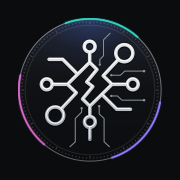
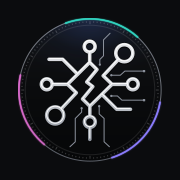
Tighten the seal's rings and darken its disc
Claude-Session: https://claude.ai/code/session_01U614ADp9nbGW9D51g8CnAr

Changed region(s): [[0.3889, 0.1111, 0.6111, 0.1944]]

diff --git a/src/components/site/botlane-seal.tsx b/src/components/site/botlane-seal.tsx
@@ -7,23 +7,23 @@ import { cn } from "@/lib/utils"
 // with the disc's centre at 0,0, so the beams can turn about the origin. The rings read --neutral-12 and the lane colours
 // read their own tokens, so the seal follows the theme; the disc stays dark in both themes, like a button that keeps its own material.
 const R = 376
-const REACH = 590   // half the canvas with the rings on
+const REACH = 512   // half the canvas with the rings on
 const NEAT = R + 2  // half the canvas with the rings off
 const LINE = 18.92     // the bolt's line width
 const ICON = "M-1.7 -199.3L-1.7 -145.1L36.5 -107.3L-17.2 -41.9L14.6 -17.8L-39.1 47.5L-0.9 85.3L-0.9 139.5M-0.9 196.3L-0.9 259.1M-1.7 -145.1L-118.2 -29.9L-198.6 -29.9M-0.9 85.3L115.7 -29.9L196.1 -29.9M-118.2 -29.9L-71.8 14.8L-152.2 100.8M115.7 -29.9L69.2 -74.6L149.6 -160.6M-215.0 -161.0L-143.2 -161.0L-64.5 -82.3M212.4 101.3L140.6 101.3L61.9 22.6M-30.1 -227.7a28.4 28.4 0 1 0 56.8 0a28.4 28.4 0 1 0 -56.8 0ZM-29.2 167.9a28.4 28.4 0 1 0 56.8 0a28.4 28.4 0 1 0 -56.8 0ZM-255.4 -29.9a28.4 28.4 0 1 0 56.8 0a28.4 28.4 0 1 0 -56.8 0ZM196.1 -29.9a28.4 28.4 0 1 0 56.8 0a28.4 28.4 0 1 0 -56.8 0ZM-227.5 133.5a44.7 44.7 0 1 0 89.4 0a44.7 44.7 0 1 0 -89.4 0ZM135.4 -193.3a44.7 44.7 0 1 0 89.4 0a44.7 44.7 0 1 0 -89.4 0Z"
 const BOLT = "M-1.7 -145.1L36.5 -107.3L-17.2 -41.9L14.6 -17.8L-39.1 47.5L-0.9 85.3"  // the spine's zigzag alone, for the tiny size
 const TRACES = "M105.3 -297.8L70.9 -263.4L70.9 -179.5L51.6 -160.2L51.6 -133.1M283.8 -99.1L182.7 -99.1L159.1 -77.6L111.8 -77.6M283.8 53.5L167.7 53.5L144.0 31.2L111.8 31.2M-105.3 297.8L-77.4 272.0L-77.4 149.4L-43.9 115.9L-43.9 95.7M101.9 297.8L74.0 272.0L74.0 149.4L48.2 125.8L48.2 84.9"
-const RINGS = "M-396.8 77.0C-397.8 69.4 -401.8 46.7 -402.9 31.5C-404.1 16.2 -404.4 0.8 -403.9 -14.4C-403.3 -29.7 -401.9 -45.0 -399.6 -60.2C-397.3 -75.3 -394.1 -90.3 -390.1 -105.1C-386.2 -119.8 -381.3 -134.4 -375.7 -148.6C-370.1 -162.9 -363.6 -176.8 -356.4 -190.3C-349.2 -203.8 -341.2 -216.9 -332.6 -229.5C-323.9 -242.1 -314.5 -254.3 -304.4 -265.8C-294.4 -277.3 -284.6 -287.8 -272.4 -298.7C-260.2 -309.6 -238.2 -325.9 -231.4 -331.3M-193.1 353.7C-201.9 348.2 -229.8 332.3 -245.7 320.4C-261.5 308.6 -275.1 296.1 -288.4 282.6C-301.6 269.0 -313.9 254.3 -325.2 239.0C-336.5 223.8 -350.8 199.0 -355.9 190.9M-350.8 -351.9C-342.3 -359.5 -316.8 -384.0 -299.6 -397.4C-282.4 -410.9 -265.5 -422.0 -247.4 -432.7C-229.3 -443.3 -200.5 -456.5 -191.1 -461.3M285.5 -308.1C292.1 -300.9 313.4 -279.2 325.2 -264.9C336.9 -250.5 346.5 -237.0 355.8 -222.1C365.0 -207.3 376.5 -183.5 380.6 -175.8M16.5 -482.7C23.7 -482.2 46.8 -481.1 60.0 -479.7C73.3 -478.3 84.0 -476.6 95.8 -474.3C107.6 -472.1 125.2 -467.6 131.1 -466.3M403.4 -1.5C403.1 4.5 402.8 23.5 401.9 34.5C401.1 45.6 399.8 54.8 398.2 64.8C396.6 74.9 393.2 89.8 392.3 94.8M-529.9 -19.0C-529.7 -22.9 -529.3 -34.5 -528.7 -42.2C-528.2 -50.0 -527.5 -56.8 -526.5 -65.4C-525.6 -73.9 -523.5 -88.9 -522.9 -93.6M289.0 -455.9C296.4 -450.7 319.3 -435.9 333.7 -424.8C348.0 -413.6 361.8 -401.7 375.0 -389.2C388.1 -376.6 400.6 -363.3 412.4 -349.5C424.2 -335.7 435.3 -321.2 445.6 -306.2C455.9 -291.2 465.5 -275.7 474.3 -259.7C483.0 -243.8 490.9 -227.3 498.0 -210.6C505.0 -193.8 511.3 -176.6 516.6 -159.3C521.9 -141.9 526.3 -124.2 529.8 -106.4C533.3 -88.5 535.9 -70.5 537.6 -52.4C539.3 -34.3 540.0 -16.1 539.9 2.1C539.7 20.2 538.6 38.4 536.6 56.5C534.6 74.5 531.6 92.5 527.8 110.2C524.0 127.9 519.2 145.5 513.6 162.7C508.0 179.9 501.5 196.9 494.2 213.5C486.9 230.0 478.7 246.3 469.7 262.0C460.8 277.7 451.0 293.0 440.5 307.7C430.0 322.4 418.8 336.6 406.9 350.2C395.0 363.7 382.3 376.8 369.1 389.0C355.9 401.3 342.0 413.0 327.7 423.8C313.3 434.7 298.4 444.9 283.0 454.2C267.7 463.6 251.7 472.2 235.5 480.0C219.3 487.7 202.7 494.7 185.8 500.8C168.9 506.8 151.6 512.1 134.2 516.4C116.8 520.8 99.1 524.2 81.4 526.8C63.7 529.4 45.7 531.0 27.8 531.8C10.0 532.6 -8.0 532.5 -25.9 531.4C-43.7 530.4 -61.6 528.5 -79.3 525.7C-96.9 522.9 -114.5 519.2 -131.7 514.6C-149.0 510.1 -166.1 504.6 -182.8 498.4C-199.5 492.1 -216.0 485.0 -232.0 477.1C-248.0 469.2 -263.6 460.5 -278.7 451.0C-293.8 441.6 -308.5 431.3 -322.6 420.4C-336.7 409.6 -350.3 397.9 -363.3 385.7C-376.2 373.4 -388.6 360.5 -400.2 347.0C-411.8 333.5 -422.8 319.4 -433.1 304.9C-443.3 290.3 -452.9 275.2 -461.6 259.7C-470.4 244.2 -478.4 228.1 -485.5 211.8C-492.7 195.5 -501.4 170.2 -504.6 161.9M-440.4 221.7C-444.5 212.2 -457.9 184.3 -464.9 165.0C-471.8 145.6 -477.5 125.6 -482.0 105.6C-486.4 85.5 -489.6 65.0 -491.5 44.5C-493.4 24.0 -494.1 3.2 -493.5 -17.3C-492.9 -37.9 -488.8 -68.7 -487.9 -79.0"
+const RINGS = "M-388.9 75.4C-389.9 68.0 -393.7 45.8 -394.9 30.8C-396.0 15.9 -396.4 0.8 -395.8 -14.2C-395.3 -29.1 -393.9 -44.2 -391.6 -59.0C-389.4 -73.8 -386.3 -88.5 -382.4 -103.0C-378.5 -117.5 -373.8 -131.8 -368.2 -145.7C-362.7 -159.6 -356.4 -173.3 -349.3 -186.5C-342.3 -199.7 -334.5 -212.6 -326.0 -225.0C-317.5 -237.3 -308.2 -249.2 -298.4 -260.5C-288.5 -271.8 -278.8 -282.0 -266.9 -292.7C-255.0 -303.4 -233.6 -319.3 -227.0 -324.6M-189.7 346.9C-198.2 341.5 -225.4 325.8 -240.9 314.2C-256.4 302.5 -269.7 290.3 -282.7 277.1C-295.7 263.8 -307.9 249.4 -318.9 234.4C-329.9 219.4 -343.9 195.0 -348.9 187.2M-317.9 -320.9C-310.3 -327.6 -287.8 -349.1 -272.2 -361.1C-256.7 -373.1 -241.1 -383.4 -224.7 -393.0C-208.2 -402.6 -182.0 -414.4 -173.5 -418.7M276.0 -297.2C282.4 -290.3 302.9 -269.7 314.2 -255.9C325.5 -242.2 334.8 -229.0 343.7 -214.6C352.7 -200.3 363.8 -177.4 367.8 -169.9M16.4 -443.1C22.8 -442.6 43.2 -441.5 55.1 -440.2C67.0 -438.9 77.0 -437.3 87.9 -435.2C98.7 -433.1 114.8 -428.9 120.2 -427.7M395.6 -1.2C395.4 4.6 395.0 23.0 394.2 33.8C393.3 44.7 392.1 53.7 390.5 63.6C388.9 73.4 385.6 88.1 384.7 93.0M-471.5 -16.9C-471.3 -20.4 -470.9 -30.7 -470.4 -37.6C-469.8 -44.4 -469.2 -50.8 -468.4 -58.1C-467.5 -65.5 -465.7 -77.6 -465.1 -81.5M255.6 -403.3C262.2 -398.7 282.4 -385.5 295.1 -375.6C307.7 -365.8 320.0 -355.2 331.6 -344.1C343.2 -333.0 354.2 -321.2 364.6 -309.0C375.0 -296.8 384.9 -283.9 394.0 -270.7C403.1 -257.5 411.6 -243.7 419.3 -229.6C427.0 -215.5 434.0 -201.0 440.3 -186.2C446.5 -171.4 452.0 -156.2 456.7 -140.8C461.4 -125.5 465.4 -109.8 468.5 -94.0C471.6 -78.3 473.9 -62.3 475.4 -46.3C476.9 -30.3 477.6 -14.2 477.5 1.8C477.4 17.9 476.4 34.0 474.7 49.9C473.0 65.9 470.4 81.8 467.0 97.5C463.7 113.2 459.5 128.8 454.6 144.0C449.7 159.2 443.9 174.3 437.5 189.0C431.1 203.6 423.9 218.1 416.0 232.0C408.1 245.9 399.5 259.5 390.2 272.6C381.0 285.6 371.0 298.3 360.5 310.3C350.0 322.4 338.9 333.9 327.2 344.8C315.5 355.8 303.3 366.1 290.6 375.8C277.9 385.5 264.6 394.6 251.0 402.9C237.4 411.3 223.3 418.9 209.0 425.9C194.6 432.8 179.9 439.0 164.9 444.5C149.9 449.9 134.6 454.6 119.2 458.5C103.7 462.4 88.0 465.5 72.3 467.9C56.5 470.2 40.6 471.7 24.7 472.5C8.9 473.2 -7.1 473.1 -23.0 472.3C-38.9 471.4 -54.8 469.7 -70.5 467.3C-86.1 464.8 -101.8 461.6 -117.1 457.6C-132.5 453.6 -147.7 448.7 -162.6 443.2C-177.5 437.7 -192.1 431.4 -206.3 424.4C-220.6 417.4 -234.5 409.7 -248.0 401.3C-261.4 392.9 -274.5 383.8 -287.1 374.1C-299.6 364.4 -311.8 354.1 -323.3 343.2C-334.8 332.3 -345.8 320.8 -356.2 308.8C-366.5 296.8 -376.3 284.3 -385.5 271.3C-394.6 258.4 -403.1 244.9 -410.9 231.1C-418.6 217.3 -425.7 203.0 -432.1 188.5C-438.5 174.0 -446.2 151.5 -449.0 144.0M-401.4 202.1C-405.1 193.5 -417.4 168.0 -423.7 150.3C-430.0 132.7 -435.2 114.5 -439.2 96.2C-443.3 77.9 -446.2 59.2 -447.9 40.5C-449.6 21.9 -450.2 2.9 -449.6 -15.8C-449.0 -34.5 -445.2 -62.6 -444.3 -71.9"
 const WORD = "M357 12Q301.2 12 259.4 -12.1Q217.6 -36.2 194.6 -79.2L191.6 0H70.4V-710H198.4V-458.4Q219.6 -494.6 260.8 -520.3Q302 -546 357 -546Q425.8 -546 476.2 -511.6Q526.6 -477.2 554.2 -414.6Q581.8 -352 581.8 -267Q581.8 -182 554.2 -119.4Q526.6 -56.8 476.2 -22.4Q425.8 12 357 12ZM327.6 -91.6Q383 -91.6 416.2 -138.2Q449.4 -184.8 449.4 -267Q449.4 -349.8 416.6 -396.1Q383.8 -442.4 328.8 -442.4Q287.8 -442.4 258.4 -421.7Q229 -401 213.7 -361.8Q198.4 -322.6 198.4 -267Q198.4 -213 213.7 -173.5Q229 -134 258.1 -112.8Q287.2 -91.6 327.6 -91.6ZM877.8 12Q798.8 12 739.6 -22.4Q680.4 -56.8 647.8 -119.7Q615.2 -182.6 615.2 -267Q615.2 -352 647.8 -414.4Q680.4 -476.8 739.6 -511.4Q798.8 -546 877.8 -546Q956.8 -546 1015.7 -511.4Q1074.6 -476.8 1107.2 -414.4Q1139.8 -352 1139.8 -267Q1139.8 -182.6 1107.2 -119.7Q1074.6 -56.8 1015.7 -22.4Q956.8 12 877.8 12ZM877.8 -91.6Q939.6 -91.6 973.5 -137.9Q1007.4 -184.2 1007.4 -267Q1007.4 -349.4 973.5 -395.9Q939.6 -442.4 877.8 -442.4Q816 -442.4 781.8 -395.9Q747.6 -349.4 747.6 -267Q747.6 -184.2 781.8 -137.9Q816 -91.6 877.8 -91.6ZM1417.6 0Q1338 0 1300.5 -36.8Q1263 -73.6 1263 -152.8V-659.2H1391V-165.2Q1391 -127.6 1407.2 -113.4Q1423.4 -99.2 1456.8 -99.2H1532V0ZM1179.4 -434.8V-534H1532V-434.8ZM1714.4 0Q1655.6 0 1621 -30Q1586.4 -60 1586.4 -126.4V-710H1714.4V-139.4Q1714.4 -118.6 1724.7 -108.9Q1735 -99.2 1754.2 -99.2H1793.4V0ZM1992.6 12Q1909.4 12 1858.3 -26.4Q1807.2 -64.8 1807.2 -133.6Q1807.2 -203.2 1850.2 -242Q1893.2 -280.8 1980.6 -298L2158.2 -332.6Q2158.2 -389.6 2132.1 -418.2Q2106 -446.8 2055.4 -446.8Q2008.8 -446.8 1982.2 -425.5Q1955.6 -404.2 1946.4 -363.8L1816.2 -370.4Q1831.6 -454.6 1893.7 -500.3Q1955.8 -546 2055.4 -546Q2169.4 -546 2227.8 -488.7Q2286.2 -431.4 2286.2 -324.4V-129.8Q2286.2 -108.6 2293.5 -100.9Q2300.8 -93.2 2315.8 -93.2H2332.8V0Q2326.8 1.8 2313.4 3.1Q2300 4.4 2286.4 4.4Q2253.2 4.4 2227.3 -6.5Q2201.4 -17.4 2187 -43.5Q2172.6 -69.6 2172.6 -115.6L2184.2 -108Q2175.6 -72.8 2149.4 -45.5Q2123.2 -18.2 2083 -3.1Q2042.8 12 1992.6 12ZM2019 -81.2Q2061.6 -81.2 2092.7 -97.9Q2123.8 -114.6 2141 -144.9Q2158.2 -175.2 2158.2 -215.6V-245.6L2019.8 -217.6Q1977.4 -209.2 1958.5 -191.5Q1939.6 -173.8 1939.6 -145.6Q1939.6 -115 1960.3 -98.1Q1981 -81.2 2019 -81.2ZM2373.4 0V-534H2489.2L2494.2 -384.2L2478.6 -390.4Q2487 -446.2 2511.8 -480.3Q2536.6 -514.4 2572.9 -530.2Q2609.2 -546 2652.2 -546Q2711.2 -546 2751.5 -520.2Q2791.8 -494.4 2812.7 -448.9Q2833.6 -403.4 2833.6 -343.4V0H2705.6V-302.2Q2705.6 -347.2 2696.9 -378.3Q2688.2 -409.4 2667.8 -425.7Q2647.4 -442 2613 -442Q2561.6 -442 2531.5 -406.1Q2501.4 -370.2 2501.4 -302.2V0ZM3159.6 12Q3079.8 12 3021.1 -22.4Q2962.4 -56.8 2930.3 -119.7Q2898.2 -182.6 2898.2 -267Q2898.2 -351.4 2930.3 -413.8Q2962.4 -476.2 3020.5 -511.1Q3078.6 -546 3157.2 -546Q3233.4 -546 3290.6 -511.9Q3347.8 -477.8 3379.1 -413.8Q3410.4 -349.8 3410.4 -260V-231.4H3031Q3034.8 -160.8 3069.3 -125.6Q3103.8 -90.4 3161.2 -90.4Q3204 -90.4 3232.3 -109.5Q3260.6 -128.6 3272 -163.8L3402.8 -155.6Q3381.4 -78.2 3316.7 -33.1Q3252 12 3159.6 12ZM3031 -317.4H3277.6Q3273.6 -382.4 3240.9 -413.8Q3208.2 -445.2 3157.2 -445.2Q3105.8 -445.2 3072.3 -412.3Q3038.8 -379.4 3031 -317.4Z"
 const WORD_WIDTH = 3450
 const WORD_XHEIGHT = 534
 const UNITS = 1000
-const NODES = [[1.5, -483.5, 15], [-362.5, -342.5, 15], [-220.5, -338.5, 13], [276.5, -317.5, 13], [403.5, -14.5, 13], [-521.5, -108.5, 15], [-181.5, 359.5, 13]] as const
+const NODES = [[1.4, -443.7, 15], [-329.1, -311, 15], [-216.1, -331.8, 13], [266.8, -306.3, 13], [395.6, -14.2, 13], [-463.3, -96.4, 15], [-178.1, 352.8, 13]] as const
 // Three arcs of the rings, spaced about a third of a turn apart, that can each carry a lane. Each runs out to its own node.
 const SLOTS = [
-  { arc: "M-268.0 -463.1C-260.0 -467.3 -236.5 -480.8 -220.1 -488.5C-203.7 -496.1 -187.7 -502.7 -169.8 -508.8C-151.8 -515.0 -121.8 -522.6 -112.2 -525.4", node: [-97.5, -528.5, 15], tail: [-268, -463.1] },
-  { arc: "M420.2 237.1C413.3 247.3 393.5 279.7 378.8 298.2C364.2 316.8 348.9 333.0 332.2 348.5C315.6 364.0 297.6 378.5 279.0 391.5C260.3 404.4 229.9 420.4 220.1 426.2", node: [426.5, 223.5, 15], tail: [220.1, 426.2] },
-  { arc: "M84.1 470.7C75.1 471.7 48.0 475.7 29.9 476.6C11.8 477.5 -6.5 477.4 -24.6 476.2C-42.7 475.1 -60.8 473.0 -78.6 469.8C-96.4 466.6 -114.2 462.5 -131.5 457.3C-148.8 452.2 -166.0 446.0 -182.6 439.0C-199.2 431.9 -215.6 423.9 -231.3 415.0C-247.0 406.2 -262.3 396.3 -276.9 385.8C-291.5 375.2 -305.6 363.7 -319.0 351.6C-332.3 339.4 -344.1 327.9 -356.9 312.8C-369.6 297.8 -389.2 269.9 -395.6 261.3", node: [-403.5, 248.5, 15], tail: [84.1, 470.7] },
+  { arc: "M-237.8 -410.8C-230.7 -414.5 -209.7 -426.4 -195.2 -433.1C-180.6 -439.8 -166.2 -445.7 -150.5 -451.0C-134.8 -456.3 -109.3 -462.8 -101.1 -465.1", node: [-86.4, -468.2, 15], tail: [-237.8, -410.8] },
+  { arc: "M385.3 218.9C379.1 228.0 361.3 257.1 348.0 274.0C334.7 290.9 320.6 305.9 305.3 320.3C290.1 334.6 273.6 348.0 256.5 360.0C239.4 372.0 211.5 386.8 202.5 392.2", node: [392, 205.4, 15], tail: [202.5, 392.2] },
+  { arc: "M77.5 433.7C69.2 434.6 44.2 438.3 27.6 439.2C10.9 440.2 -6.0 440.1 -22.7 439.1C-39.3 438.2 -56.1 436.2 -72.5 433.4C-89.0 430.5 -105.3 426.7 -121.3 422.0C-137.4 417.3 -153.2 411.7 -168.6 405.2C-183.9 398.7 -199.0 391.4 -213.5 383.2C-228.1 375.0 -242.2 366.0 -255.7 356.2C-269.2 346.5 -282.3 335.9 -294.6 324.7C-306.9 313.5 -317.9 302.7 -329.6 289.0C-341.3 275.2 -359.1 250.1 -364.9 242.4", node: [-372.9, 229.6, 15], tail: [77.5, 433.7] },
 ] as const
 const TRACE_ENDS = [[51.6, -133.1], [111.8, -77.6], [111.8, 31.2], [-43.9, 95.7], [48.2, 84.9]] as const
 const TRACE_PADS = [[283.8, -99.1], [283.8, 53.5]] as const
@@ -115,13 +115,13 @@ export function BotlaneSeal({ size = 64, rings, animated = true, optical, lanes 
           </linearGradient>
         ))}
         <linearGradient id={`${id}-glass`} gradientUnits="userSpaceOnUse" x1="0" y1={-R} x2="0" y2={R}>
-          <stop offset="0" stopColor="#1C1F24" />
-          <stop offset="0.5" stopColor="#101114" />
-          <stop offset="1" stopColor="#0B0C0E" />
+          <stop offset="0" stopColor="#121417" />
+          <stop offset="0.5" stopColor="#0A0B0D" />
+          <stop offset="1" stopColor="#060708" />
         </linearGradient>
         <radialGradient id={`${id}-fall`} gradientUnits="userSpaceOnUse" cx="0" cy="0" r="1" gradientTransform={`translate(0 ${-R}) scale(${R * 1.15} ${R * 0.83})`}>
-          <stop offset="0" stopColor="#4F7BFF" stopOpacity="0.3" />
-          <stop offset="0.55" stopColor="#4F7BFF" stopOpacity="0.07" />
+          <stop offset="0" stopColor="#4F7BFF" stopOpacity="0.2" />
+          <stop offset="0.55" stopColor="#4F7BFF" stopOpacity="0.045" />
           <stop offset="1" stopColor="#4F7BFF" stopOpacity="0" />
         </radialGradient>
         <linearGradient id={`${id}-edge`} gradientUnits="userSpaceOnUse" x1="0" y1={-R} x2="0" y2={R}>
